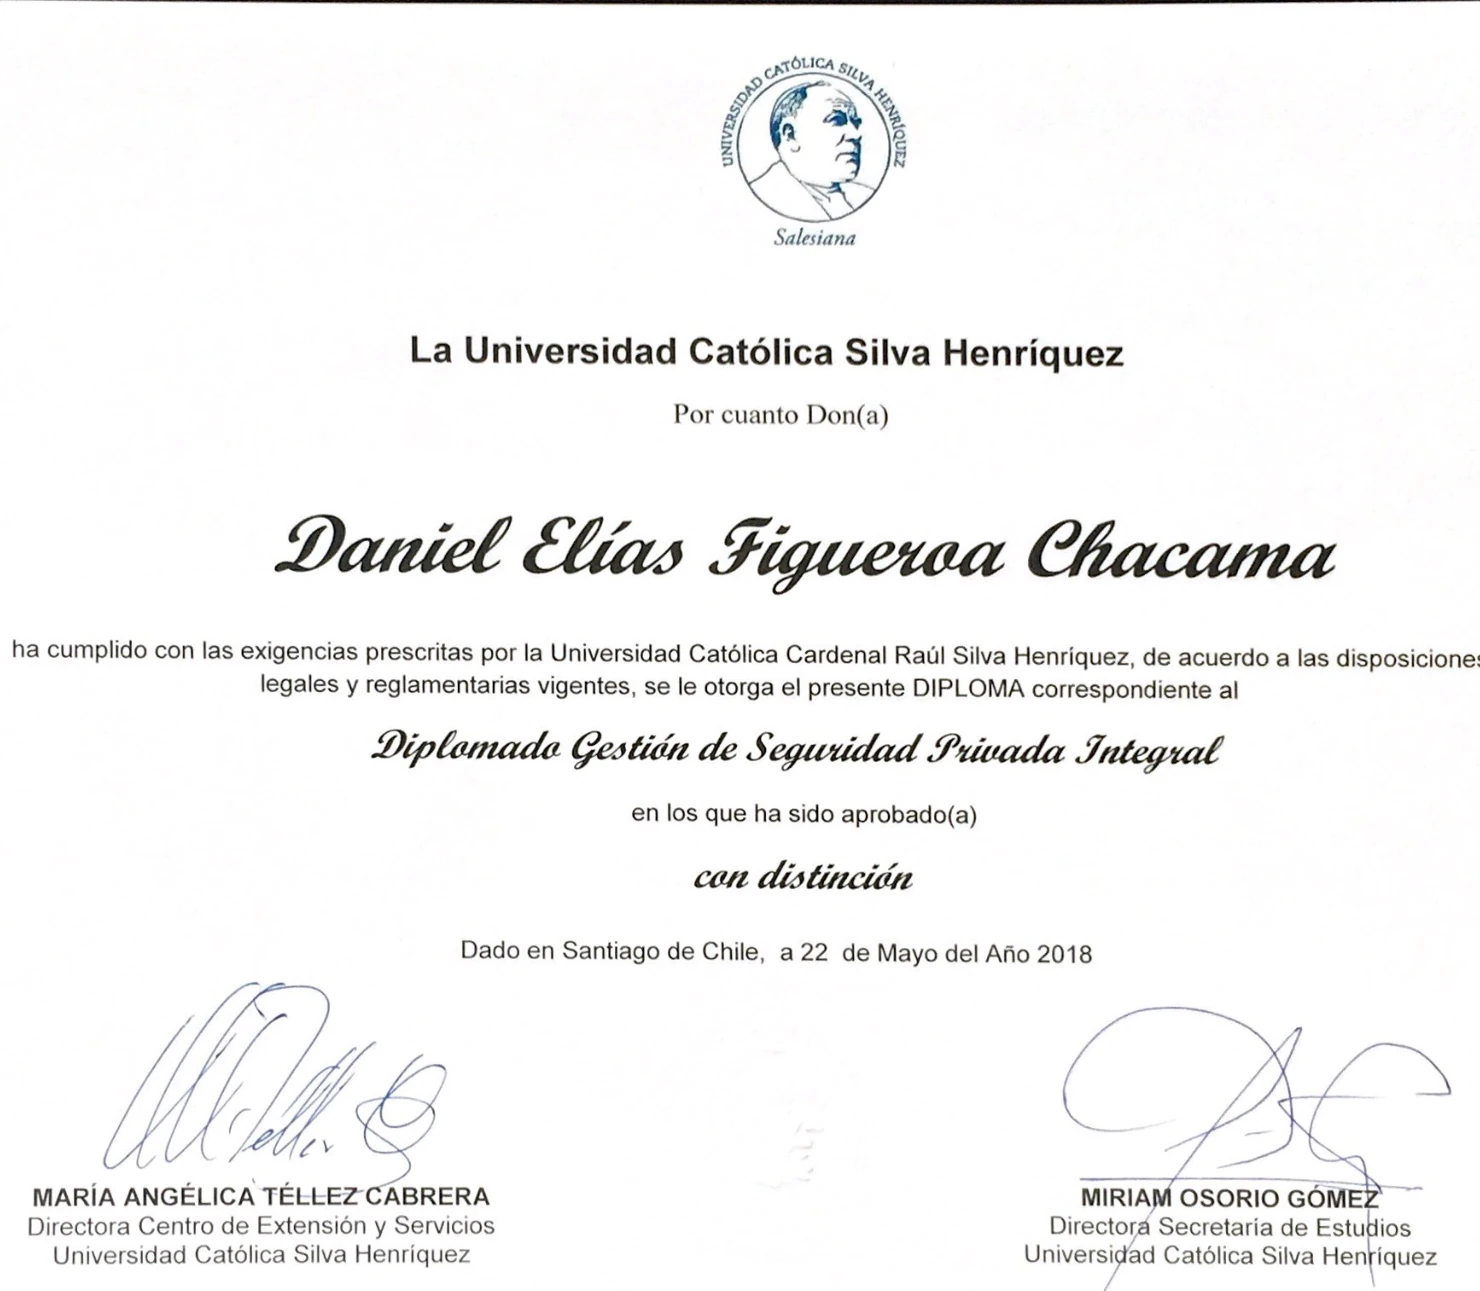
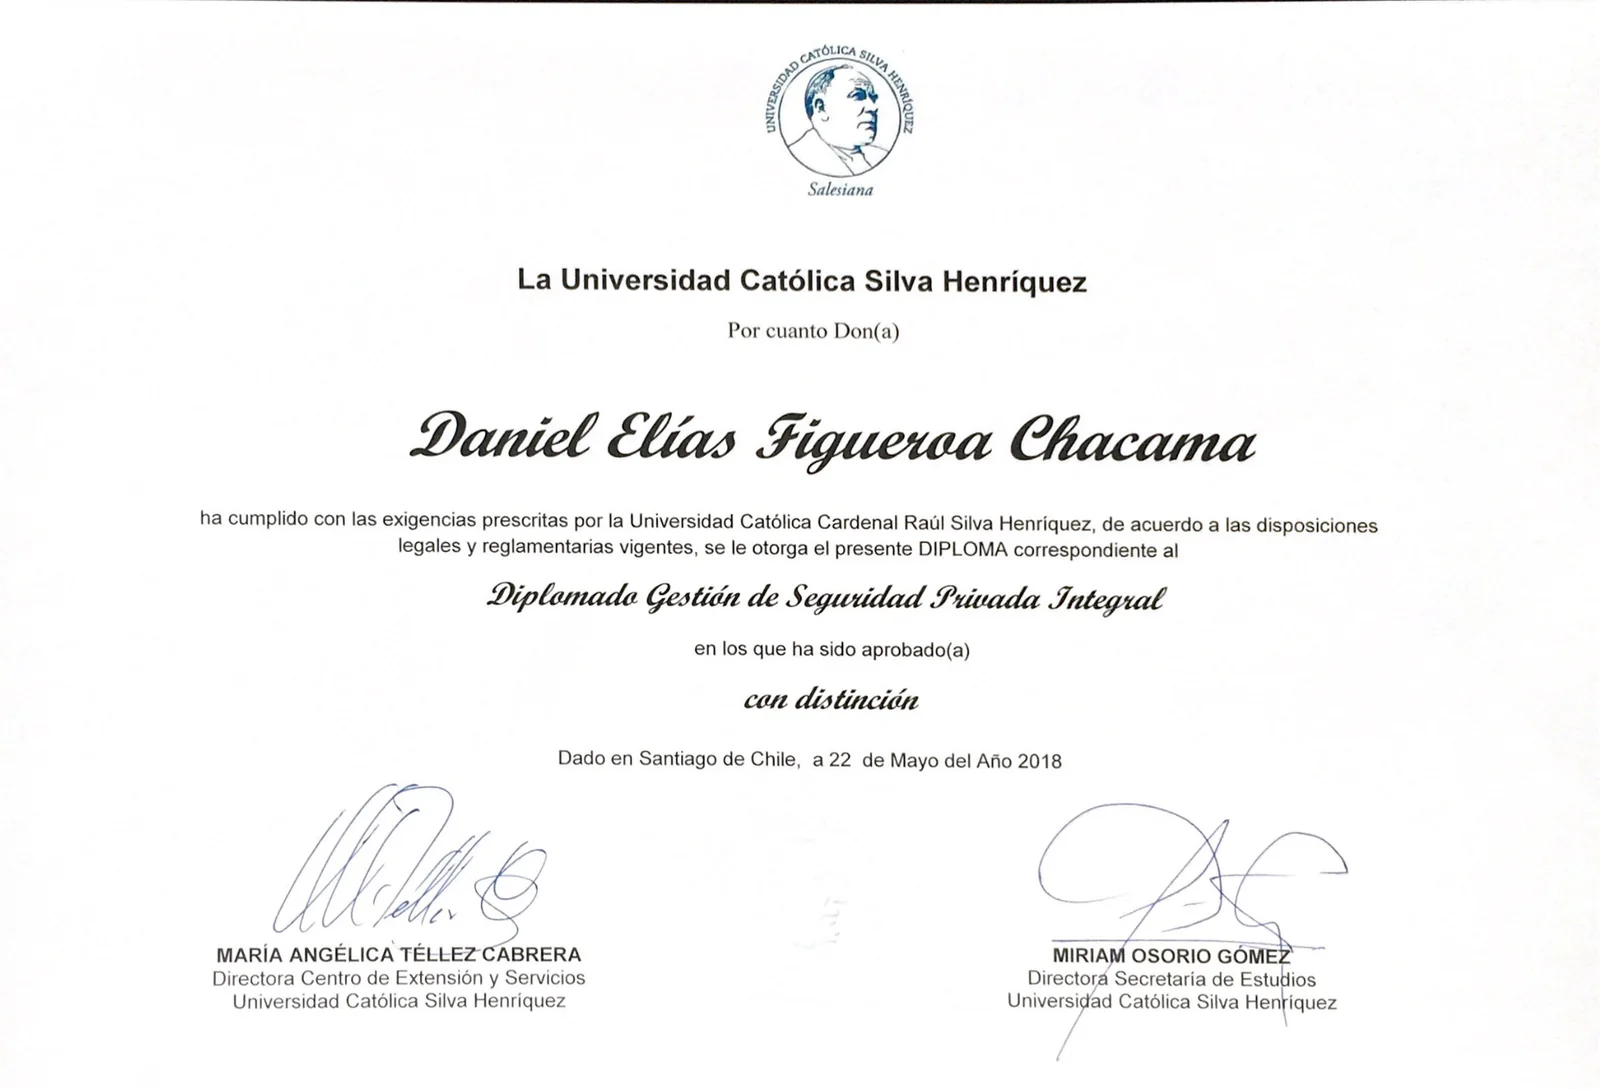
Usa los diplomas originales completos y reordena los marcos
Las .webp de "Gestión de Seguridad Privada" y del "Diplomado en
Ciberseguridad (IACC)" estaban recortadas respecto a su original .png (habían
perdido el sello superior y/o las firmas). Se regeneran completas desde el
.png, sin recorte, y también la de Ingeniería en Informática, todas
optimizadas para web.

- Los cinco diplomas se muestran completos; al quedar todos con proporción
  pareja (~1.42), los tres marcos de arriba se ven del mismo tamaño.
- Se sube y agranda un poco la fila superior, y la fila inferior se sube y
  se separa hacia los lados para que no se monte sobre la persona.
- Se actualizan las dimensiones intrínsecas de las imágenes y su versión de
  caché (v=8).

Claude-Session: https://claude.ai/code/session_01Y8CC7BS4dcWXcLvbQZumz1

diff --git a/index.html b/index.html
@@ -13,7 +13,7 @@
     <link rel="preconnect" href="https://fonts.gstatic.com" crossorigin>
     <link rel="preconnect" href="https://unpkg.com" crossorigin>
     <!-- Precarga la imagen principal para que abra más rápido -->
-    <link rel="preload" as="image" href="images/DIPLOMA DE INGENIERIA EN INFORMATICA.webp?v=3" fetchpriority="high">
+    <link rel="preload" as="image" href="images/DIPLOMA DE INGENIERIA EN INFORMATICA.webp?v=8" fetchpriority="high">
 
     <!-- Fuentes sin bloquear el primer render (swap + carga diferida) -->
     <link rel="stylesheet"
@@ -1213,11 +1213,11 @@
         /* Ubicación de cada marco sobre el muro central limpio.
            Fila superior: 3 marcos. Fila inferior: 2 marcos que flanquean
            a la persona (sin taparla). Porcentajes del recuadro de la foto. */
-        html.scene-on .diploma-unit:nth-child(1) { left: 32.0%; top: 9%;  width: 11.6%; }
-        html.scene-on .diploma-unit:nth-child(2) { left: 44.2%; top: 9%;  width: 11.6%; }
-        html.scene-on .diploma-unit:nth-child(3) { left: 56.4%; top: 9%;  width: 11.6%; }
-        html.scene-on .diploma-unit:nth-child(4) { left: 30.5%; top: 36%; width: 11.6%; }
-        html.scene-on .diploma-unit:nth-child(5) { left: 57.9%; top: 36%; width: 11.6%; }
+        html.scene-on .diploma-unit:nth-child(1) { left: 31.0%; top: 5.5%;  width: 12.4%; }
+        html.scene-on .diploma-unit:nth-child(2) { left: 43.8%; top: 5.5%;  width: 12.4%; }
+        html.scene-on .diploma-unit:nth-child(3) { left: 56.6%; top: 5.5%;  width: 12.4%; }
+        html.scene-on .diploma-unit:nth-child(4) { left: 29.5%; top: 27%;   width: 11.0%; }
+        html.scene-on .diploma-unit:nth-child(5) { left: 58.7%; top: 27%;   width: 12.4%; }
 
         /* El marco conserva su moldura de nogal, escalada al porte del muro */
         html.scene-on .diploma-unit .diploma-frame {
@@ -1505,8 +1505,8 @@
                         <div class="diploma-content">
                             <i class="ph ph-magnifying-glass-plus diploma-zoom-icon"></i>
                             <div class="diploma-image-wrap">
-                                <img src="images/DIPLOMA DE INGENIERIA EN INFORMATICA.webp?v=3" alt="Diploma Ingeniería en Informática"
-                                     width="3308" height="2339" decoding="async" fetchpriority="high"
+                                <img src="images/DIPLOMA DE INGENIERIA EN INFORMATICA.webp?v=8" alt="Diploma Ingeniería en Informática"
+                                     width="1700" height="1202" decoding="async" fetchpriority="high"
                                      onerror="this.style.display='none'">
                             </div>
                         </div>
@@ -1553,8 +1553,8 @@
                         <div class="diploma-content">
                             <i class="ph ph-magnifying-glass-plus diploma-zoom-icon"></i>
                             <div class="diploma-image-wrap">
-                                <img src="images/DIPLOMADO EN GESTION DE SEGURIDAD PRIVADA.webp?v=3" alt="Diplomado en Gestión de Seguridad Privada"
-                                     width="2006" height="1365" decoding="async" loading="lazy"
+                                <img src="images/DIPLOMADO EN GESTION DE SEGURIDAD PRIVADA.webp?v=8" alt="Diplomado en Gestión de Seguridad Privada"
+                                     width="1600" height="1089" decoding="async" loading="lazy"
                                      onerror="this.style.display='none'">
                             </div>
                         </div>
@@ -1601,8 +1601,8 @@
                         <div class="diploma-content">
                             <i class="ph ph-magnifying-glass-plus diploma-zoom-icon"></i>
                             <div class="diploma-image-wrap">
-                                <img src="images/DiplomadoCibserguridad.webp?v=3" alt="Diplomado en Ciberseguridad · IACC"
-                                     width="681" height="579" decoding="async" loading="lazy"
+                                <img src="images/DiplomadoCibserguridad.webp?v=8" alt="Diplomado en Ciberseguridad · IACC"
+                                     width="996" height="703" decoding="async" loading="lazy"
                                      onerror="this.style.display='none'">
                             </div>
                         </div>
